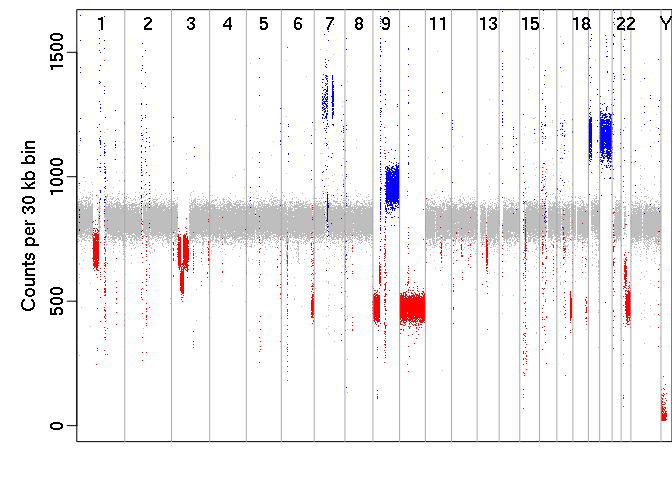
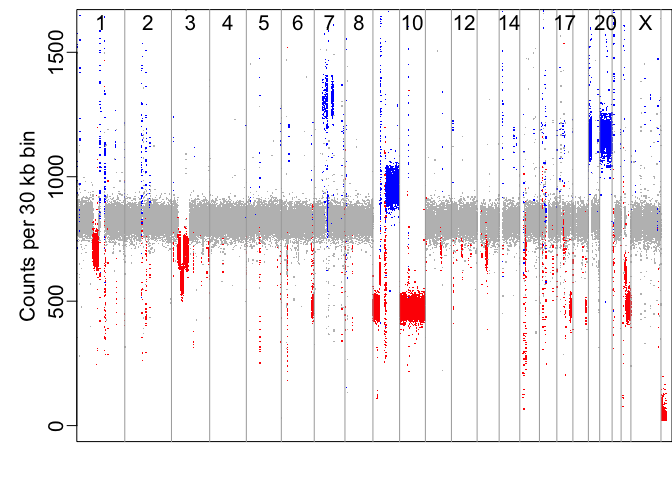
Roxygen documentation

diff --git a/inst/producing_input_data.md b/inst/producing_input_data.md
@@ -13,10 +13,17 @@ tools ourselves and cannot attest to the quality of the results.
 
 Assuming the bam file you have is aligned to chromosomes labelled
 chr1,chr2,…,chrX,chrY  
-`loh_dbSnp_20180418.tsv.gz` is our file with a list of 33629538 common
-snp positions. Other such files are available from a variety of sources.
+`hetScore_dbSnp_20180418.tsv.gz` is a file with a list of 33629538
+common snp positions. Other such files are available from a variety of
+sources.
 
-`zcat loh_dbSnp_20180418.tsv.gz | tail -n +2 | awk '{if ($1==23) {test="X"} else if ($1=24) {test="Y"} else {test=$1} print "chr"test"\t"$2}' > [inputFile]`
+`zcat hetScore_dbSnp_20180418.tsv.gz | tail -n +7 | awk '{if ($1==23) {test="X"} else if ($1==24) {test="Y"} else {test=$1} print "chr"test"\t"$2}' > [inputFile]`
+
+The columns in hetScore_dbSnp_20180418.tsv.gz are: “chr”, “pos”, “id”,
+“ref”, “alt”, “reffreq”, “altfreq”. For example: chr pos id ref alt
+reffreq altfreq 1 11012 rs544419019 C G 0.9119 0.08806 1 11063
+rs561109771 T G 0.997 0.002995 1 13110 rs540538026 G A 0.9732 0.02676 1
+13116 rs62635286 T G 0.903 0.09704
 
 ### Samtools
 
@@ -58,12 +65,12 @@ samtools mpileup -a -A -q 10 -Q 15 -d 1000 --no-output-ins --no-output-ins --no-
 ```
 cat [pileupFile] | awk '{ p=$5; nA=gsub("[Aa]","",p); print $1,$2,$4,$5,nA; }' | awk '{ p=$4; nC=gsub("[Cc]","",p); print $1,$2,$3,$4,$5,nC; }' | awk '{ p=$4; nG=gsub("[Gg]","",p); print $1,$2,$3,$4,$5,$6,nG; }' | awk '{ p=$4; nT=gsub("[Tt]","",p); print $1,$2,$3,$4,$5,$6,$7,nT; }' | awk '{ p=$4; nD=gsub("[*]","",p); print $1,$2,$3,$4,$5,$6,$7,$8,nD; }' | awk 'BEGIN {OFS=",";}{ p=$4; nR=gsub("[<>]","",p); print $3,$5,$6,$7,$8,$9,nR; }' > [pileupTempFile]
 echo "CHROM,POS,REF,ALT,COV,A,C,G,T,DEL,REFSKIP" >> [pileupFinal]
-paste -d',' <( zcat loh_dbSnp_20180418.tsv.gz | tail -n +2 | awk 'BEGIN {OFS=","};{print $1,$2,$4,$5 }') <(cat [pileupTempFile]) >> [pileupFinal]
+paste -d',' <( zcat hetScore_dbSnp_20180418.tsv.gz | tail -n +7 | awk 'BEGIN {OFS=","};{print $1,$2,$4,$5 }') <(cat [pileupTempFile]) >> [pileupFinal]
 ```
 
 ```
 sw=( A:C:G:T )
-echo "chr,pos,ref,alt" >> [hetInputFile]
+echo "chr,pos,ref,alt" > [hetInputFile]
 tail -n +2 [pileupFinal] | awk -v sw="${sw[*]}" 'BEGIN {FS=","};BEGIN {OFS="\t"};{ 
 n=split(sw, AR, ":");
 for(i=1;i<=4;i++) { 

diff --git a/README.md b/README.md
@@ -4,6 +4,7 @@
 # BACDAC
 
 <!-- badges: start -->
+
 <!-- badges: end -->
 
 BACDAC is an R package for “Ploidy Analysis using the Binomial Allelic
@@ -51,7 +52,7 @@ linearGenomePlot(readDepthPer30kbBin=readDepthPer30kbBin,readDepthBinSize=readDe
                 sampleId=sampleId,segmentation=segmentation)
 ```
 
-<img src="man/figures/README-example-1.png" width="100%" />
+<img src="man/figures/README-example-1.png" alt="" width="100%" />
 
 There are four main functions to be operated in this order:
 
@@ -76,7 +77,7 @@ Two reference files are also required. These are available at
 NOTE/WARNING: When running the examples (as packaged with their current
 directory structure) if the files do not exist they will be
 automatically downloaded and installed into a folder in your current
-directory at `./referencefiles`
+directory at `./referenceFiles`
 
 ## Sample input Files
 
